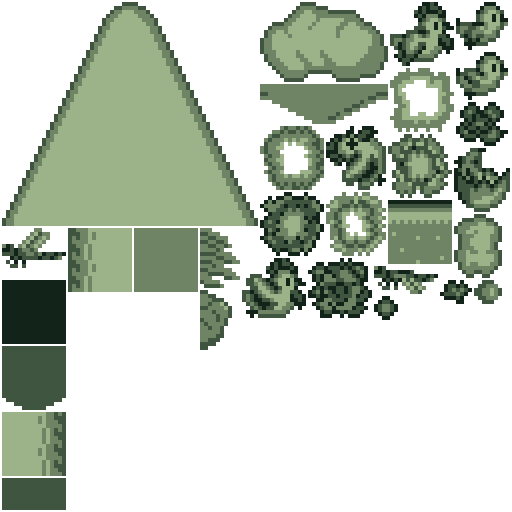
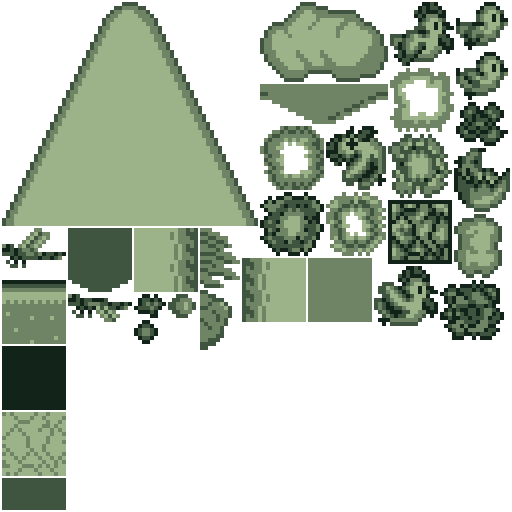
背景「洞窟」追加。背景・障害物が画面外に出ても消えない不具合を修正。

Changed region(s): [[0.0, 0.4375, 0.4062, 0.9375], [0.4688, 0.375, 1.0, 0.6875]]

diff --git a/toritoma/PlayingScene/AKCharacter.m b/toritoma/PlayingScene/AKCharacter.m
@@ -217,7 +217,7 @@ static NSMutableString *imageFileName_ = nil;
     self.prevPositionX = self.positionX;
     self.prevPositionY = self.positionY;
     
-    AKLog(kAKLogCharacter_1, @"scroll=(%f, %f)", [AKPlayData sharedInstance].scrollSpeedX, [AKPlayData sharedInstance].scrollSpeedY);
+    AKLog(kAKLogCharacter_2, @"scroll=(%f, %f)", [AKPlayData sharedInstance].scrollSpeedX, [AKPlayData sharedInstance].scrollSpeedY);
             
     // 座標の移動
     // 画面スクロールの影響を受ける場合は画面スクロール分も移動する
@@ -244,7 +244,7 @@ static NSMutableString *imageFileName_ = nil;
             break;
     }
     
-    AKLog(kAKLogCharacter_1, @"pos=(%.0f, %.0f) scr=(%d, %d)",
+    AKLog(kAKLogCharacter_2, @"pos=(%.0f, %.0f) scr=(%d, %d)",
           self.positionX, self.positionY,
           [AKScreenSize xOfStage:self.positionX], [AKScreenSize yOfStage:self.positionY]);
         
@@ -289,7 +289,7 @@ static NSMutableString *imageFileName_ = nil;
             }
         }
         
-        AKLog(kAKLogCharacter_1, @"pattern=%d time=%f interval=%f", pattern, self.animationTime, self.animationInterval);
+        AKLog(kAKLogCharacter_2, @"pattern=%d time=%f interval=%f", pattern, self.animationTime, self.animationInterval);
         
         // アニメーションパターンに応じて画像ファイル名を作成する
         NSRange range = {0, imageFileName_.length};
@@ -351,7 +351,7 @@ static NSMutableString *imageFileName_ = nil;
     float mytop = self.positionY + self.height / 2.0f;
     float mybottom = self.positionY - self.height / 2.0f;
     
-    AKLog(kAKLogCharacter_1, @"my=(%f, %f, %f, %f)", myleft, myright, mytop, mybottom);
+    AKLog(kAKLogCharacter_3, @"my=(%f, %f, %f, %f)", myleft, myright, mytop, mybottom);
     
     // 衝突したかどうかを記憶する
     BOOL isHit = NO;
@@ -370,7 +370,7 @@ static NSMutableString *imageFileName_ = nil;
         float targettop = target.positionY + target.height / 2.0f;
         float targetbottom = target.positionY - target.height / 2.0f;
         
-        AKLog(kAKLogCharacter_1, @"target=(%f, %f, %f, %f)", targetleft, targetright, targettop, targetbottom);
+        AKLog(kAKLogCharacter_3, @"target=(%f, %f, %f, %f)", targetleft, targetright, targettop, targetbottom);
         
         // 以下のすべての条件を満たしている時、衝突していると判断する。
         //   ・相手の右端が自キャラの左端よりも右側にある
@@ -387,7 +387,7 @@ static NSMutableString *imageFileName_ = nil;
                 [self performSelector:func withObject:target];
             }
             
-            AKLog(kAKLogCharacter_1, @"self.hitPoint=%d, target.hitPoint=%d", self.hitPoint, target.hitPoint);
+            AKLog(kAKLogCharacter_3, @"self.hitPoint=%d, target.hitPoint=%d", self.hitPoint, target.hitPoint);
             
             // 衝突したかどうかを記憶する
             isHit = YES;
@@ -522,10 +522,16 @@ static NSMutableString *imageFileName_ = nil;
     // 表示範囲外でキャラクターを残す範囲
     const float kAKBorder = 50.0f;
     
-    if ((self.positionX < -kAKBorder && self.speedX < 0.0f) ||
-        (self.positionX > [AKScreenSize stageSize].width + kAKBorder && self.speedX > 0.0f) ||
-        (self.positionY < -kAKBorder && self.speedY < 0.0f) ||
-        (self.positionY > [AKScreenSize stageSize].height + kAKBorder && self.speedY > 0.0f)) {
+    if ((self.positionX < -kAKBorder &&
+         (self.speedX - [AKPlayData sharedInstance].scrollSpeedX * self.scrollSpeed) < 0.0f) ||
+        (self.positionX > [AKScreenSize stageSize].width + kAKBorder &&
+         (self.speedX - [AKPlayData sharedInstance].scrollSpeedX * self.scrollSpeed) > 0.0f) ||
+        (self.positionY < -kAKBorder &&
+         (self.speedY - [AKPlayData sharedInstance].scrollSpeedY * self.scrollSpeed) < 0.0f) ||
+        (self.positionY > [AKScreenSize stageSize].height + kAKBorder &&
+         (self.speedY - [AKPlayData sharedInstance].scrollSpeedY * self.scrollSpeed) > 0.0f)) {
+        
+        AKLog(kAKLogCharacter_1, @"画面外に出たため削除");
         
         return TRUE;
     }

diff --git a/toritoma/PlayingScene/AKPlayData.m b/toritoma/PlayingScene/AKPlayData.m
@@ -54,7 +54,7 @@ static const NSInteger kAKMaxEnemyShotCount = 256;
 /// 画面効果の同時出現最大数
 static const NSInteger kAKMaxEffectCount = 64;
 /// 障害物の同時出現最大数
-static const NSInteger kAKMaxBlockCount = 64;
+static const NSInteger kAKMaxBlockCount = 128;
 /// 背景の同時出現最大数
 static const NSInteger kAKMaxBackCount = 128;
 /// 背景レイヤーの個数
@@ -790,6 +790,8 @@ static const enum AKCharacterPositionZ kAKCharaPosZBack[kAKBackLayerCount] = {
  */
 - (void)createPlayerShotAtX:(NSInteger)x y:(NSInteger)y
 {
+    AKLog(kAKLogPlayData_1, @"自機弾生成");
+    
     // プールから未使用のメモリを取得する
     AKPlayerShot *playerShot = [self.playerShotPool getNext];
     if (playerShot == nil) {
@@ -836,6 +838,8 @@ static const enum AKCharacterPositionZ kAKCharaPosZBack[kAKBackLayerCount] = {
  */
 - (void)createEnemy:(NSInteger)type x:(NSInteger)x y:(NSInteger)y isBoss:(BOOL)isBoss
 {
+    AKLog(kAKLogPlayData_1, @"敵生成");
+
     // プールから未使用のメモリを取得する
     AKEnemy *enemy = [self.enemyPool getNext];
     if (enemy == nil) {
@@ -870,6 +874,8 @@ static const enum AKCharacterPositionZ kAKCharaPosZBack[kAKBackLayerCount] = {
                       angle:(float)angle
                       speed:(float)speed
 {
+    AKLog(kAKLogPlayData_1, @"敵弾生成");
+
     // プールから未使用のメモリを取得する
     AKEnemyShot *enemyShot = [self.enemyShotPool getNext];
     if (enemyShot == nil) {
@@ -897,7 +903,9 @@ static const enum AKCharacterPositionZ kAKCharaPosZBack[kAKBackLayerCount] = {
  @param y y座標
  */
 - (void)createEffect:(NSInteger)type x:(NSInteger)x y:(NSInteger)y
-{    
+{
+    AKLog(kAKLogPlayData_1, @"画面効果生成");
+
     // プールから未使用のメモリを取得する
     AKEffect *effect = [self.effectPool getNext];
     if (effect == nil) {
@@ -925,6 +933,8 @@ static const enum AKCharacterPositionZ kAKCharaPosZBack[kAKBackLayerCount] = {
  */
 - (void)createBlock:(NSInteger)type x:(NSInteger)x y:(NSInteger)y isBase:(BOOL)isBase
 {
+    AKLog(kAKLogPlayData_1, @"障害物生成");
+
     // プールから未使用のメモリを取得する
     AKBlock *block = [self.blockPool getNext];
     if (block == nil) {
@@ -979,6 +989,8 @@ static const enum AKCharacterPositionZ kAKCharaPosZBack[kAKBackLayerCount] = {
  */
 - (void)createBack:(NSInteger)type x:(NSInteger)x y:(NSInteger)y priority:(NSInteger)priority isBase:(BOOL)isBase
 {
+    AKLog(kAKLogPlayData_1, @"背景生成");
+
     NSAssert(priority >= 0 && priority < kAKBackLayerCount, @"priority is out of range.");
     
     // プールから未使用のメモリを取得する

diff --git a/toritoma/PlayingScene/AKCharacterPool.m b/toritoma/PlayingScene/AKCharacterPool.m
@@ -110,7 +110,7 @@
     AKCharacter *ret = nil;   // 戻り値
     AKCharacter *work = nil;  // ワーク変数
     
-    AKLog(kAKLogCharacterPool_1, @"m_size=%d", size_);
+    AKLog(kAKLogCharacterPool_1, @"size_=%d", size_);
     
     // 未使用のキャラクターを検索する
     for (i = 0; i < size_; i++) {
@@ -118,10 +118,10 @@
         // キャラクターを取得する
         work = [pool_ objectAtIndex:next_];
         
+        AKLog(kAKLogCharacterPool_1, @"next_=%d work.isStaged=%d", next_, work.isStaged);
+        
         // インデックスを進める
         next_ = (next_ + 1) % size_;
-        
-        AKLog(kAKLogCharacterPool_1, @"i=%d work.isStaged=%d", i, work.isStaged);
         
         // 使用中かどうか調べる
         if (!work.isStaged) {

diff --git a/toritoma/PlayingScene/AKBack.m b/toritoma/PlayingScene/AKBack.m
@@ -38,7 +38,7 @@
 /// 画像名のフォーマット
 static NSString *kAKImageNameFormat = @"Back_%02d";
 /// 障害物の種類の数
-static const NSInteger kAKBackDefCount = 11;
+static const NSInteger kAKBackDefCount = 12;
 
 /// 障害物定義
 static const struct AKBackDef kAKBackDef[kAKBackDefCount] = {
@@ -52,7 +52,8 @@ static const struct AKBackDef kAKBackDef[kAKBackDefCount] = {
     {8, 1, 0.0f},
     {9, 1, 0.0f},
     {10, 1, 0.0f},
-    {11, 1, 0.0f}
+    {11, 1, 0.0f},
+    {12, 1, 0.0f}
 };
 
 /*!

diff --git a/toritoma/PlayingScene/AKBlock.m b/toritoma/PlayingScene/AKBlock.m
@@ -39,12 +39,13 @@
 /// 画像名のフォーマット
 static NSString *kAKImageNameFormat = @"Block_%02d";
 /// 障害物の種類の数
-static const NSInteger kAKBlockDefCount = 2;
+static const NSInteger kAKBlockDefCount = 3;
 
 /// 障害物定義
 static const struct AKBlcokDef kAKBlockDef[kAKBlockDefCount] = {
     {1, 1, 0.0f, 32, 32},
-    {2, 1, 0.0f, 32, 32}
+    {2, 1, 0.0f, 32, 32},
+    {3, 1, 0.0f, 32, 32}
 };
 
 /*!

diff --git a/toritoma/Common/AKLogNoDef.h b/toritoma/Common/AKLogNoDef.h
@@ -42,6 +42,8 @@ extern BOOL kAKLogBlock_0;
 extern BOOL kAKLogBlock_1;
 extern BOOL kAKLogCharacter_0;
 extern BOOL kAKLogCharacter_1;
+extern BOOL kAKLogCharacter_2;
+extern BOOL kAKLogCharacter_3;
 extern BOOL kAKLogCharacterPool_0;
 extern BOOL kAKLogCharacterPool_1;
 extern BOOL kAKLogChickenGauge_0;

diff --git a/toritoma/Common/AKLogNoDef.m b/toritoma/Common/AKLogNoDef.m
@@ -42,6 +42,8 @@ BOOL kAKLogBlock_0 = YES;
 BOOL kAKLogBlock_1 = NO;
 BOOL kAKLogCharacter_0 = YES;
 BOOL kAKLogCharacter_1 = NO;
+BOOL kAKLogCharacter_2 = NO;
+BOOL kAKLogCharacter_3 = NO;
 BOOL kAKLogCharacterPool_0 = YES;
 BOOL kAKLogCharacterPool_1 = NO;
 BOOL kAKLogChickenGauge_0 = YES;
